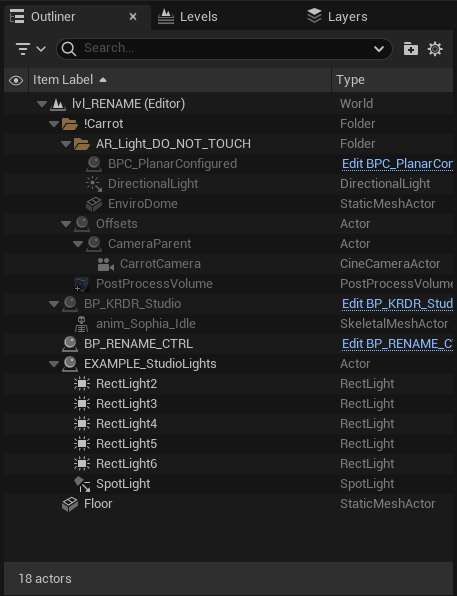
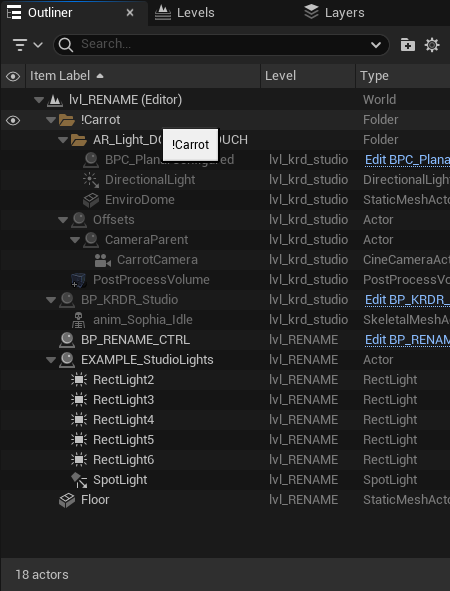
Update TP_KRD_ControllerParams.png, TP_KRD_LevelsLayers.png, TP_KRD_Outliner.png, and 1 more file

diff --git a/docs/Articles/TP_KRD.md b/docs/Articles/TP_KRD.md
@@ -19,7 +19,29 @@
 
 ### Как пользоваться
 
+
 ![[TP_KRD_Outliner.png]]{style="border-radius: 5px"}
+
+Объекты расположенные на уровне lvl_krd_studio не трогаем и не редактируем, на уровне lvl_RENAME - работаем.
+$\quad$Источники света привязанные к пустышке EXAMPLE_StudioLights присутствуют исключительно для примера и чтобы в сцене не было темно при первом открытии проекта.
+
+
+![[TP_KRD_LevelsLayers.png]]{style="border-radius: 5px"}
+
+Уровень lvl_krd_studio заблокирован для предотвращения нежелательных изменений и загружен внутрь нашего рабочего уровня lvl_RENAME. Соответствующе названы слой для объектов будущей подводки и блюпринт-контроллер.
+
+Все случаи, когда в проекте встречается слово RENAME - это знак, что нужно переименовать эту сущность в соответствии с назначением вашего проекта.
+
+>[!example]- Пример
+>* папка RENAME ---> Hackers
+>* слой RENAME ---> Hackers
+>* уровень lvl_RENAME ---> lvl_Hackers
+>* контроллер BP_RENAME_CTRL ---> BP_Hackers_CTRL
+>* переменная слоя (Layer Name) в контроллере RENAME ---> Hackers
+>
+>![[TP_KRD_ControllerParams.png]]{style="border-radius: 5px"}
+>  
+
 
 
 
